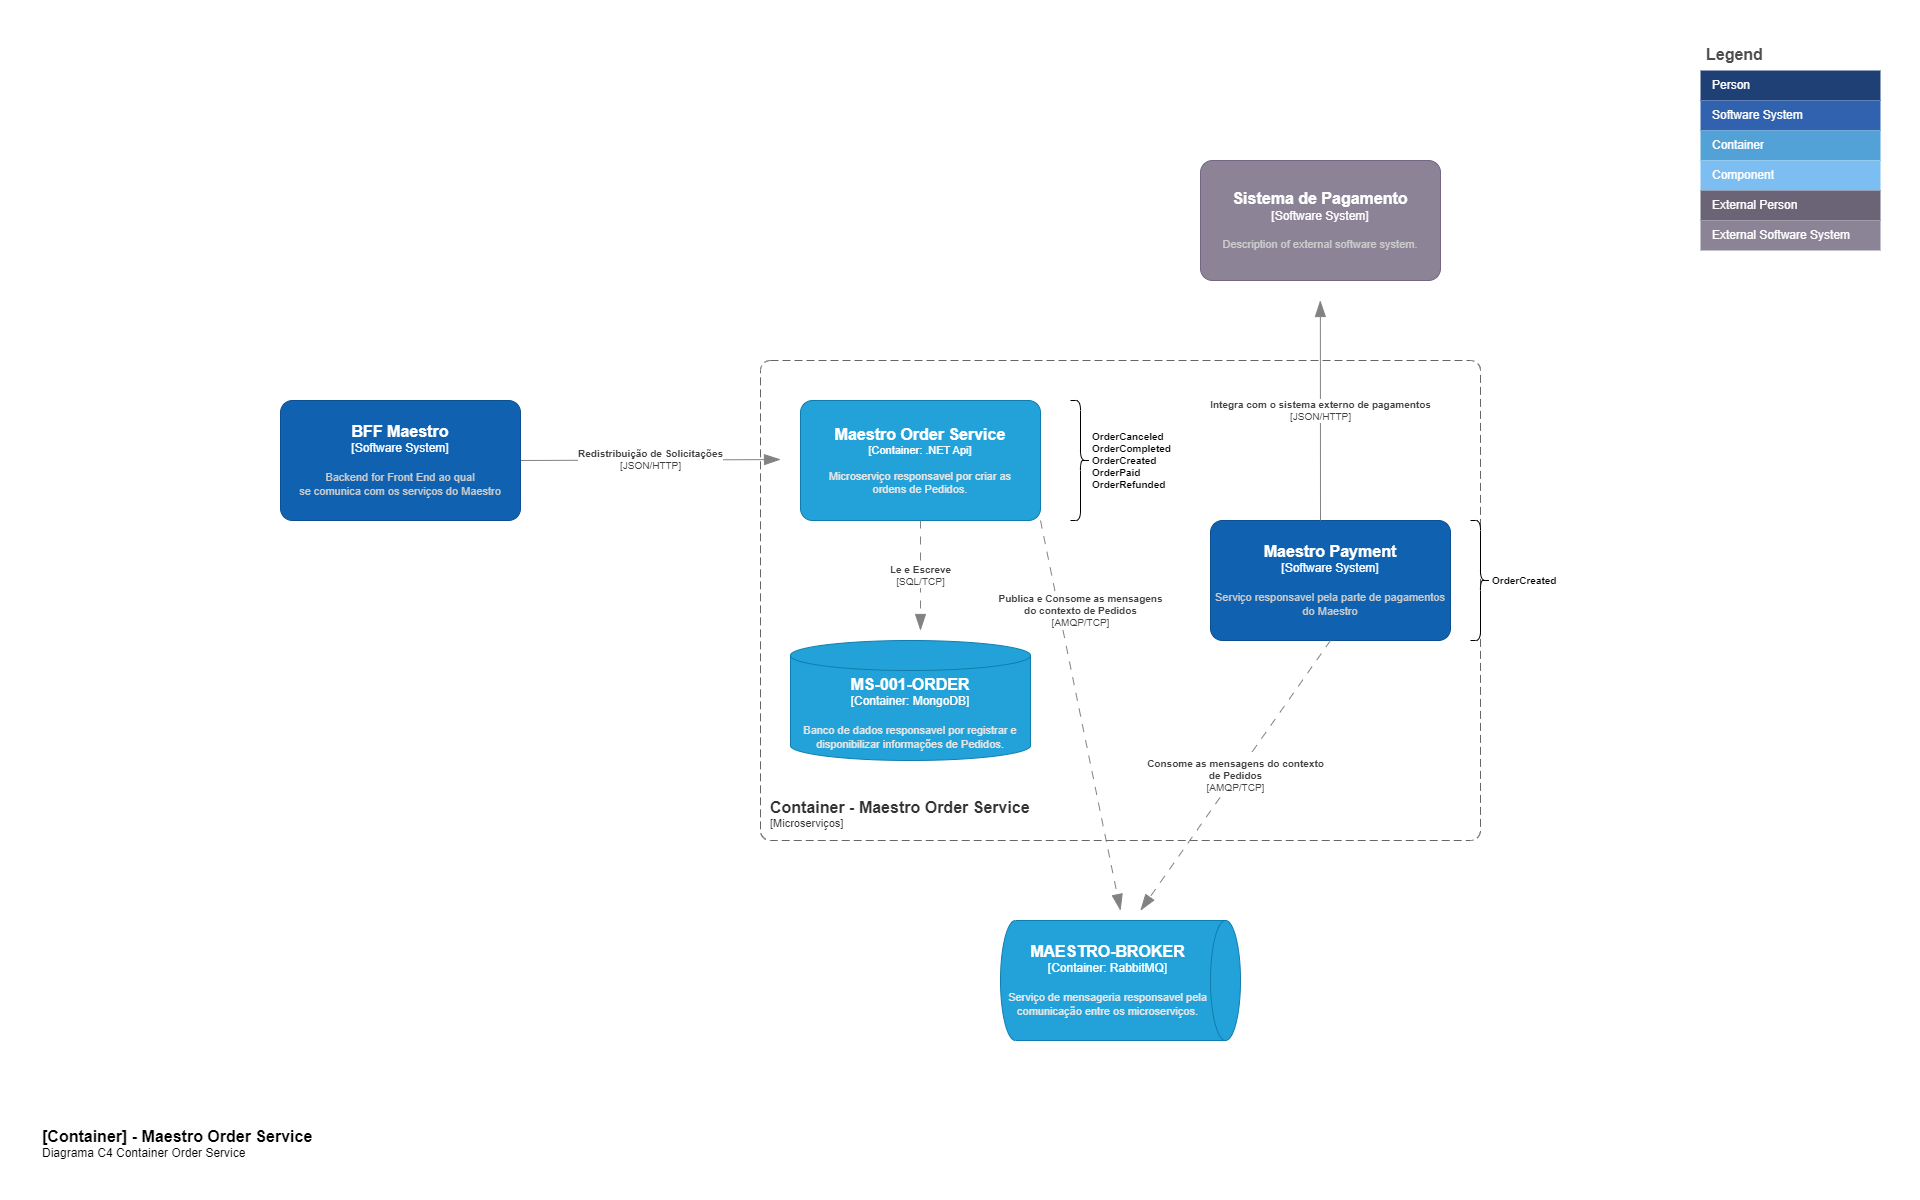
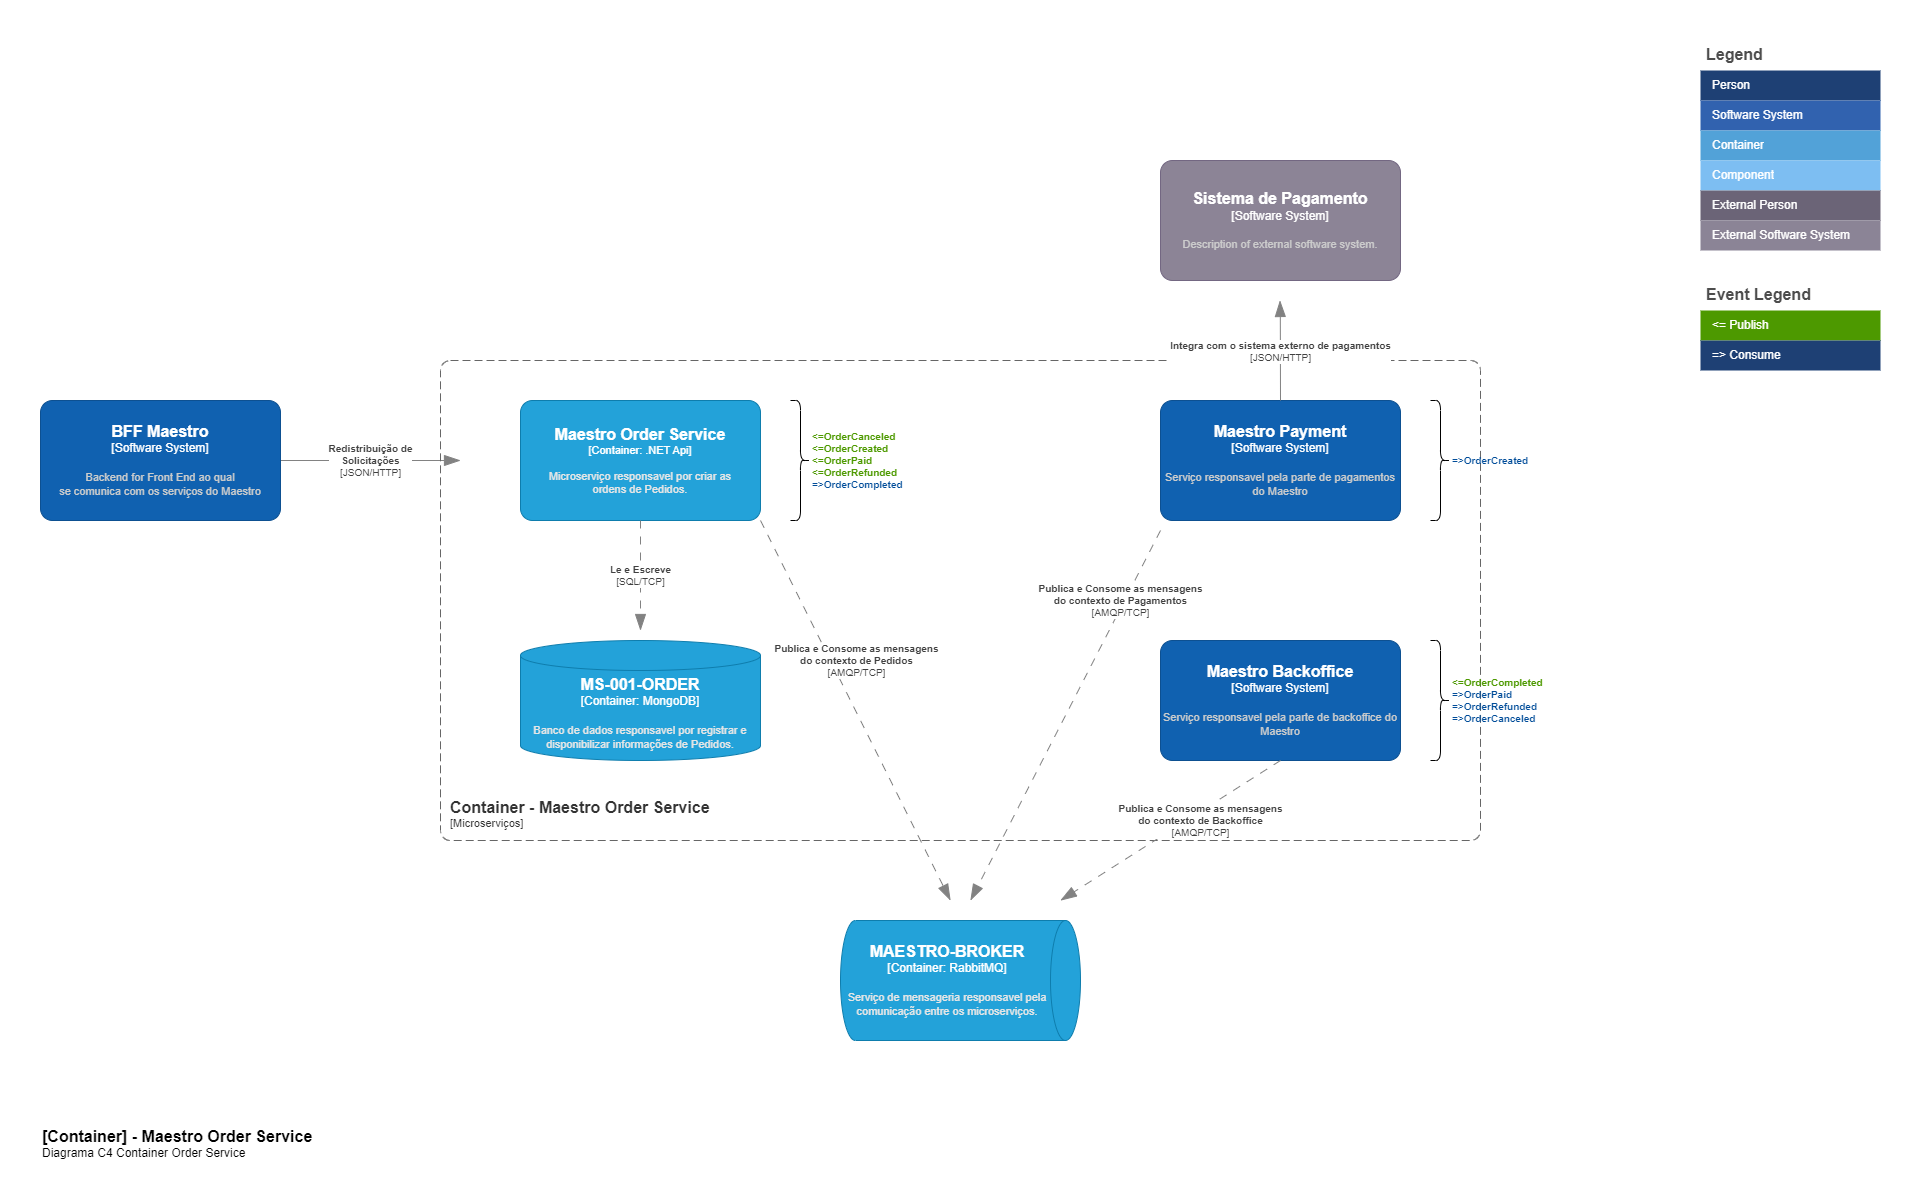
chore: add documentation

diff --git a/README.md b/README.md
@@ -26,6 +26,14 @@ Abaixo segue a modelagem da nossa solução no modelo C4 de diagramação.
 
 ![alt text](src/img/02-maestro-container-maestro-order.png)
 
+### 03 - Maestro Container Pagamentos
+
+![alt text](src/img/03-maestro-container-maestro-payment.png)
+
+### 04 - Maestro Container Backoffice
+
+![alt text](src/img/04-maestro-container-maestro-backoffice.png)
+
 
 ## Relatórios OWASP ZAP
 
